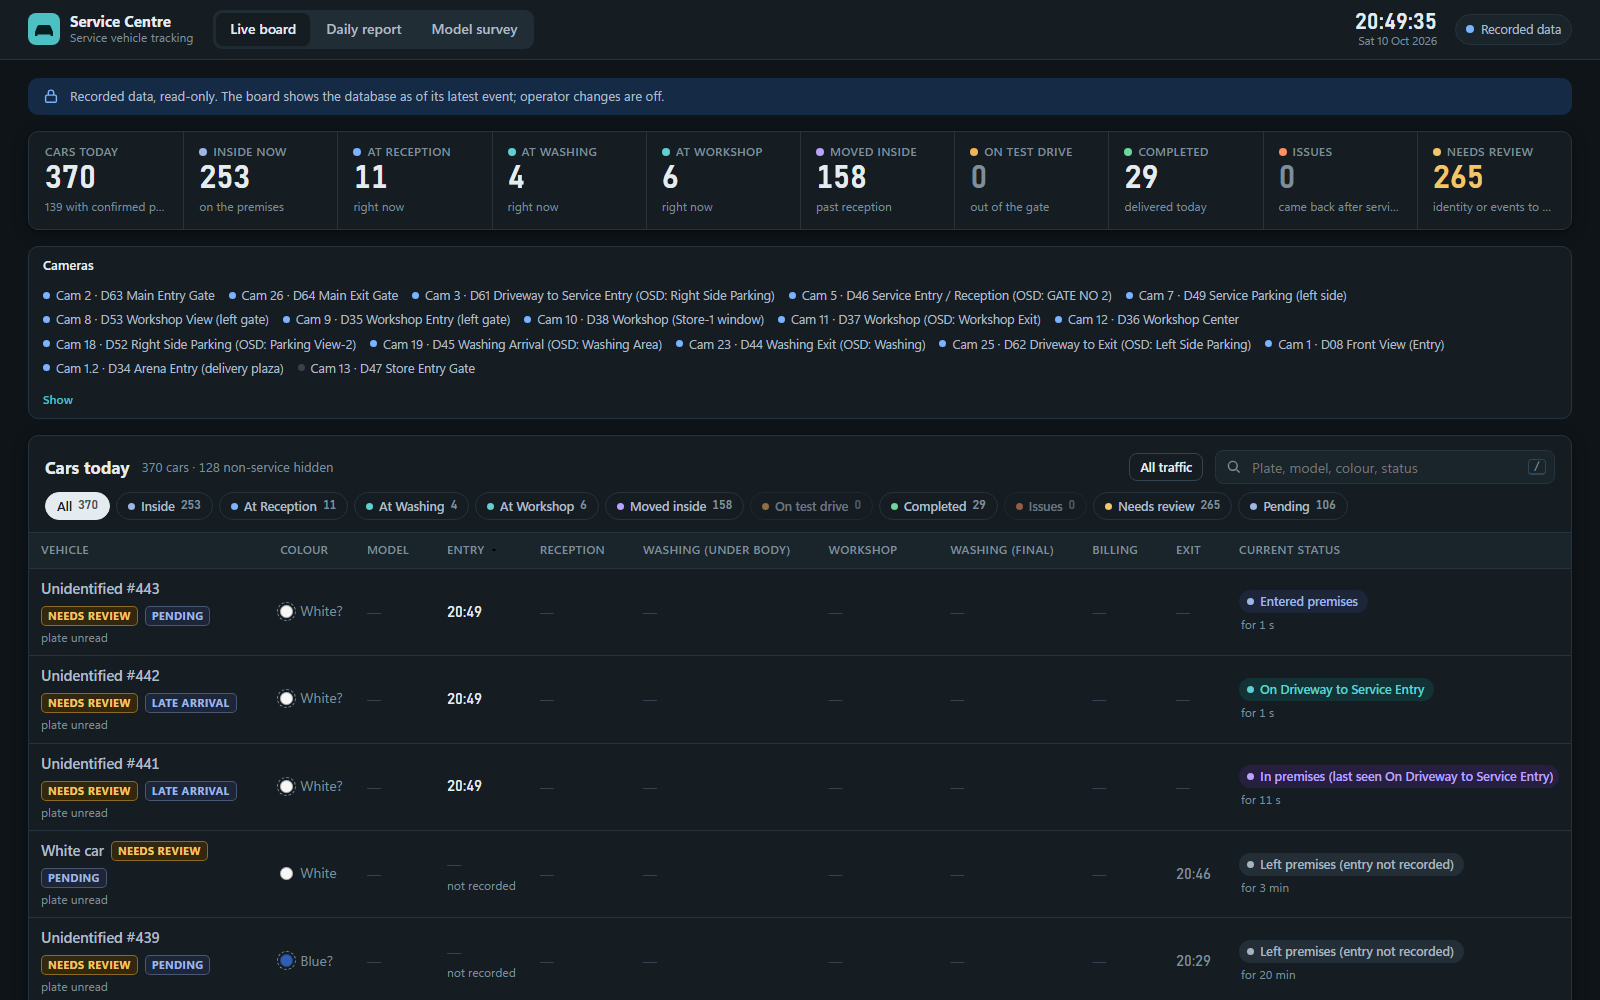
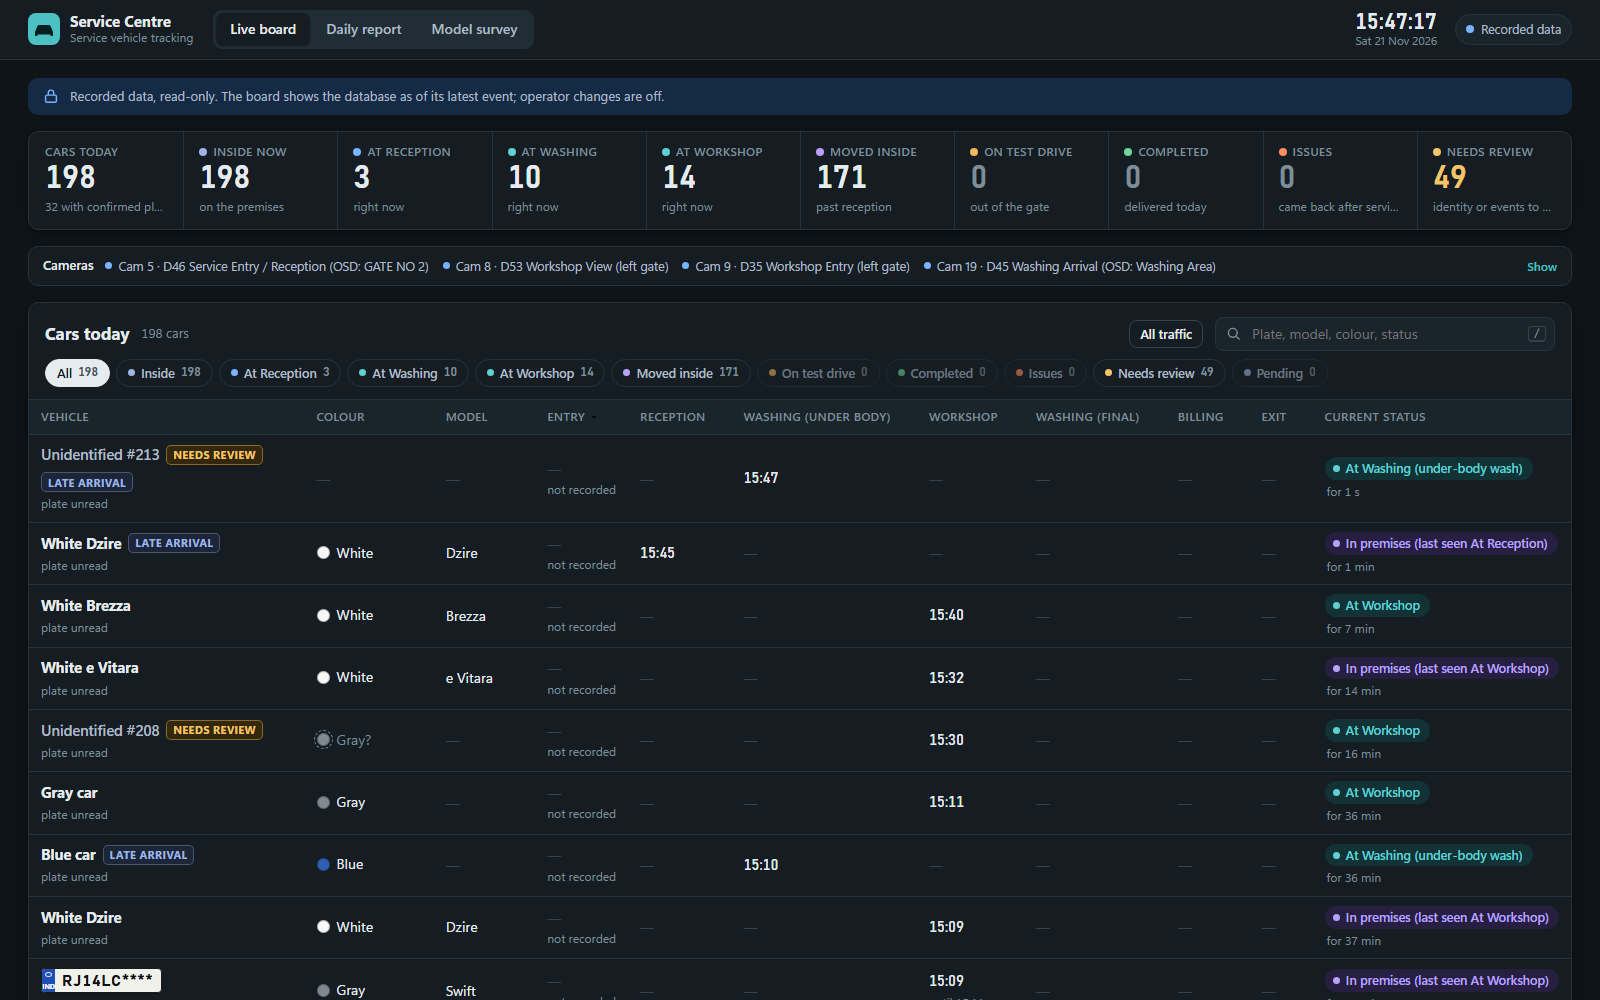
Newer screenshots from the 21 Nov live test (plates masked)

diff --git a/README.md b/README.md
@@ -32,7 +32,7 @@ In a busy service centre, dozens of cars move every day between the gate, recept
 
 ## Demo
 
-*Number plates are masked in all screenshots and videos.*
+*Number plates are masked in all screenshots and videos. Screenshots are from a live test day (21 Nov 2026) on four cameras: reception, two workshop cameras and washing.*
 
 **Live dashboard (screen recording, 45 s):** [watch the video](img/live_dashboard.mp4)
 
